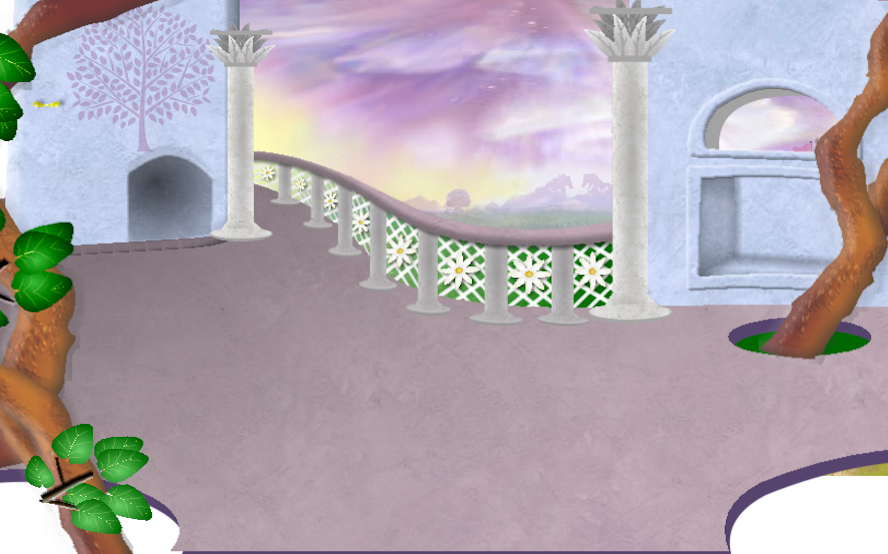
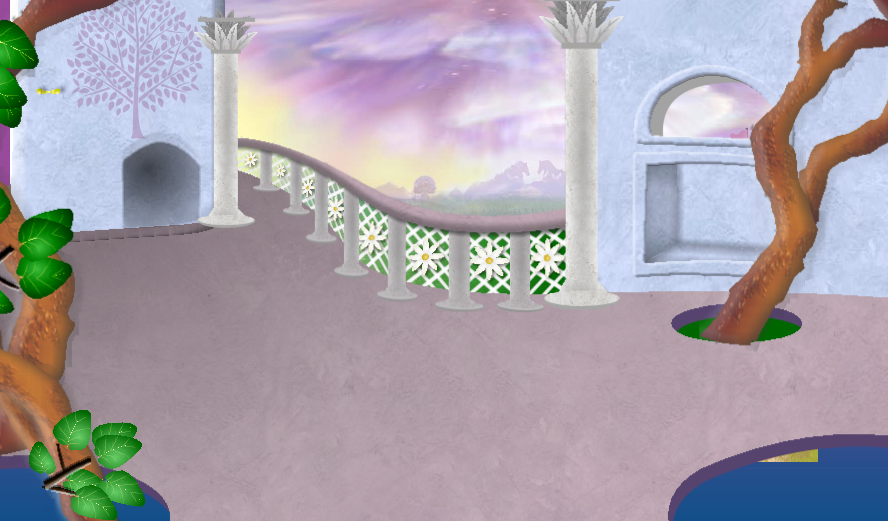
Positioning sprites

diff --git a/public/phasergames/stablesrecreation/js/foalAirStable.js b/public/phasergames/stablesrecreation/js/foalAirStable.js
@@ -33,7 +33,7 @@ class FoalAirStable extends Phaser.Scene
         game.load.atlas('fountain2', './images/airFoalStable/fountain2.png', './images/airFoalStable/fountain2.json');
         game.load.atlas('fountain3', './images/airFoalStable/fountain3.png', './images/airFoalStable/fountain3.json');
 
-        game.load.image('left_tree', './images/airStable/leftTree.png');
+        game.load.image('left_tree', './images/airFoalStable/leftTree.png');
         game.load.atlas('food_interactive', './images/airStable/food_interactive.png', './images/airStable/food_interactive.json');
         game.load.atlas('berries', './images/airFoalStable/berries.png','./images/airFoalStable/berries.json');
         game.load.image('apple', './images/airStable/berriesHeld.png');
@@ -83,8 +83,7 @@ class FoalAirStable extends Phaser.Scene
         game.stablesManager.createScene()
 
         // Brush
-        // TODO: Add and position
-        const brush = game.add.sprite(730, 223, 'brush', 'idle').setScale(0.76).setInteractive({ pixelPerfect: true });
+        const brush = game.add.sprite(658, 228, 'brush', 'idle').setScale(0.76).setInteractive({ pixelPerfect: true });
             game.stablesManager.addSpriteAnims(brush, 'brush_pickup', [
                     'pickup0000', 'pickup0001', 'pickup0002', 'pickup0003', 'pickup0004', 'pickup0005',
                     'in_use'
@@ -102,8 +101,7 @@ class FoalAirStable extends Phaser.Scene
             brush.on('pointerout', function (pointer) { game.stablesManager.pointerout (brush)});
 
         // Small Brush
-        // TODO: Add and position
-        const brushSmall = game.add.sprite(752, 239, 'brush_small', 'idle').setInteractive({ pixelPerfect: true });
+        const brushSmall = game.add.sprite(682, 244, 'brush_small', 'idle').setInteractive({ pixelPerfect: true });
             game.stablesManager.addSpriteAnims(brushSmall, 'brush_pickup_small', [
                     'pickup0000', 'pickup0001', 'pickup0002', 'pickup0003', 'pickup0004', 'pickup0005', 'pickup0006',
                     'in_use'
@@ -122,8 +120,7 @@ class FoalAirStable extends Phaser.Scene
             brushSmall.on('pointerout', function (pointer) { game.stablesManager.pointerout (brushSmall) });
 
         // Hoofpick
-        // TODO: Add and position
-        const hoofpick = game.add.sprite(750, 182, 'hoofpick', 'idle').setInteractive( { pixelPerfect: true } );
+        const hoofpick = game.add.sprite(684, 187, 'hoofpick', 'idle').setInteractive( { pixelPerfect: true } );
             game.stablesManager.addSpriteAnims(hoofpick, 'hoofpick_pickup', [
                     'pickup0000', 'pickup0001', 'pickup0002', 'pickup0003', 'pickup0004', 'pickup0005', 'pickup0006', 'pickup0007', 'pickup0008', 'pickup0009',
                     'in_use'
@@ -198,8 +195,7 @@ class FoalAirStable extends Phaser.Scene
 
 
         // Water Fountain
-        // TODO: Correct position
-        game.trough = game.add.sprite(196, 348, 'fountain1', 'idle').setInteractive({ pixelPerfect: true });
+        game.trough = game.add.sprite(209, 307, 'fountain1', 'idle').setInteractive({ pixelPerfect: true });
             game.stablesManager.addImageAnims('fountain2', 'fill_water1', [
                 '0011', '0012', '0013', '0014', '0015', '0016', '0017', '0018', '0019', '0020',
                 '0021', '0022', '0023', '0024', '0025', '0026', '0027', '0028', '0029', '0030',
@@ -246,7 +242,7 @@ class FoalAirStable extends Phaser.Scene
                 }
             });
 
-        // Food Trough
+        // Food Trough (Bottle)
         // TODO: Add and position
         game.branch = game.add.spine(-35, 230, 'branch-json', 'branch-atlas').setScale(.35)//.setAngle(90);
 
@@ -261,8 +257,7 @@ class FoalAirStable extends Phaser.Scene
 
 
         // Windchime
-        // TODO: Correct position
-        const windchimes = game.add.sprite(340, 18, 'leaf_chimes', 'idle').setInteractive({ pixelPerfect: true });
+        const windchimes = game.add.sprite(336, 30, 'leaf_chimes', 'idle').setInteractive({ pixelPerfect: true });
             game.stablesManager.addSpriteAnims(windchimes, 'windchimes_blow', [
                     'wind0000', 'wind0001', 'wind0002', 'wind0003', 'wind0004', 'wind0005', 'wind0006', 'wind0007', 'wind0008', 'wind0009',
                     'wind0010', 'wind0011', 'wind0012', 'wind0013', 'wind0014', 'wind0015', 'wind0016', 'wind0017', 'wind0018', 'wind0019',
@@ -290,8 +285,7 @@ class FoalAirStable extends Phaser.Scene
 
 
         // Horse
-        // TODO: Scale and position
-        game.stablesManager.createHorse(430, 295, 90, .8)
+        game.stablesManager.createHorse(400, 335, 90, .8)
             /**
              * Updates the feather oil count, plays the feather oil use animation
              * and updates the horse stat bars if the wings need to be cleaned.
@@ -316,9 +310,9 @@ class FoalAirStable extends Phaser.Scene
             game.additionalCleanCondition = () => {return game.extraCleanLevel === 2}
 
         
-        // Food Branch
+        // Bottle
         // TODO: Add and position
-        game.add.image(92, 285, 'left_tree');
+        game.add.image(0, 0, 'left_tree').setOrigin(0,0);
         game.foodTrough = game.add.sprite(-164, 299, 'food_interactive', 'idle').setInteractive({ pixelPerfect: true });
             game.anims.create({
                 key: 'pull_back',
@@ -346,8 +340,7 @@ class FoalAirStable extends Phaser.Scene
             });
 
         // Berries
-        // TODO: Correct position
-        const berries = game.add.sprite(762, 30, 'berries', 'idle').setScale(.43).setInteractive();
+        const berries = game.add.sprite(702, 30, 'berries', 'idle').setScale(.43).setInteractive();
             game.stablesManager.addSpriteAnims(berries, 'berries_pickup', [
                     'pickup0000', 'pickup0001', 'pickup0002', 'pickup0003', 'pickup0004', 'pickup0005', 'pickup0006', 'pickup0007', 'pickup0008', 'idle'
                 ])
@@ -359,8 +352,7 @@ class FoalAirStable extends Phaser.Scene
             });
         
         // Horn
-        // TODO: Add and position
-        const horn = game.add.sprite(10, 120, 'horn', 'idle').setInteractive({ pixelPerfect: true });
+        const horn = game.add.sprite(8, 145, 'horn', 'idle').setScale(.63).setInteractive({ pixelPerfect: true });
             game.stablesManager.addSpriteAnims(horn, 'soothe', [
                     '10', '11', '12', '13', '13', '15', '16', '17', '18', '19',
                     '20', '21', '22', '23', '23', '25', '26', '27', '28', '29',
